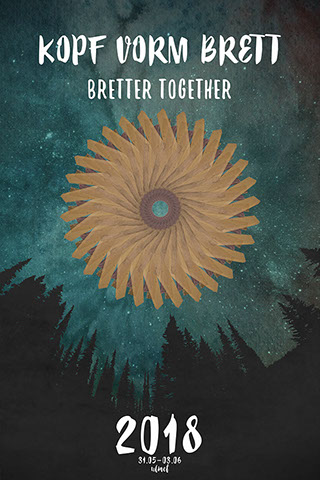
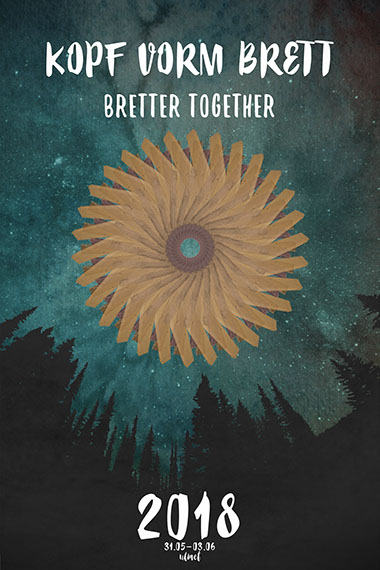
asd
asd

diff --git a/phone/index.html b/phone/index.html
@@ -1,0 +1,67 @@
+<!DOCTYPE html>
+<html class="nojs html css_verticalspacer" lang="en-US">
+ <head>
+
+  <meta http-equiv="Content-type" content="text/html;charset=UTF-8"/>
+  <meta name="generator" content="2018.0.0.379"/>
+  <meta name="viewport" content="width=380"/>
+  
+  <script type="text/javascript">
+   // Update the 'nojs'/'js' class on the html node
+document.documentElement.className = document.documentElement.className.replace(/\bnojs\b/g, 'js');
+
+// Check that all required assets are uploaded and up-to-date
+if(typeof Muse == "undefined") window.Muse = {}; window.Muse.assets = {"required":["museutils.js", "museconfig.js", "jquery.watch.js", "require.js", "index.css"], "outOfDate":[]};
+</script>
+  
+  <link rel="canonical" href="http://kopfvormbrett.de/index.html"/>
+  <title>Kopfvormbrett</title>
+  <!-- CSS -->
+  <link rel="stylesheet" type="text/css" href="../css/site_global.css?crc=444006867"/>
+  <link rel="stylesheet" type="text/css" href="css/index.css?crc=414659693" id="pagesheet"/>
+    <!--custom head HTML-->
+  <meta name="viewport" content="width=device-width, initial-scale=1.0, maximum-scale=1.0, user-scalable=0">
+<meta name="viewport" content="width=device-width, initial-scale=1.0, maximum-scale=1.0, user-scalable=0">
+ </head>
+ <body>
+
+  <div class="clearfix" id="page"><!-- group -->
+   <div class="clearfix grpelem" id="pu3224"><!-- group -->
+    <div class="clip_frame grpelem" id="u3224"><!-- image -->
+     <img class="block" id="u3224_img" src="../images/bretter_together.jpg?crc=218959345" alt="" width="380" height="570"/>
+    </div>
+    <div class="clip_frame grpelem" id="u3226"><!-- image -->
+     <img class="block" id="u3226_img" src="../images/bretter_together_muse_oben380x501.png?crc=3870968601" alt="" width="380" height="501"/>
+    </div>
+   </div>
+   <div class="verticalspacer" data-offset-top="786" data-content-above-spacer="785" data-content-below-spacer="70"></div>
+   <div class="clip_frame grpelem" id="u3228"><!-- image -->
+    <img class="block" id="u3228_img" src="../images/kvb_sschwarz_unten380x574.jpg?crc=263956725" alt="" width="380" height="574"/>
+   </div>
+  </div>
+  <!-- Other scripts -->
+  <script type="text/javascript">
+   // Decide weather to suppress missing file error or not based on preference setting
+var suppressMissingFileError = false
+</script>
+  <script type="text/javascript">
+   window.Muse.assets.check=function(d){if(!window.Muse.assets.checked){window.Muse.assets.checked=!0;var b={},c=function(a,b){if(window.getComputedStyle){var c=window.getComputedStyle(a,null);return c&&c.getPropertyValue(b)||c&&c[b]||""}if(document.documentElement.currentStyle)return(c=a.currentStyle)&&c[b]||a.style&&a.style[b]||"";return""},a=function(a){if(a.match(/^rgb/))return a=a.replace(/\s+/g,"").match(/([\d\,]+)/gi)[0].split(","),(parseInt(a[0])<<16)+(parseInt(a[1])<<8)+parseInt(a[2]);if(a.match(/^\#/))return parseInt(a.substr(1),
+16);return 0},g=function(g){for(var f=document.getElementsByTagName("link"),h=0;h<f.length;h++)if("text/css"==f[h].type){var i=(f[h].href||"").match(/\/?css\/([\w\-]+\.css)\?crc=(\d+)/);if(!i||!i[1]||!i[2])break;b[i[1]]=i[2]}f=document.createElement("div");f.className="version";f.style.cssText="display:none; width:1px; height:1px;";document.getElementsByTagName("body")[0].appendChild(f);for(h=0;h<Muse.assets.required.length;){var i=Muse.assets.required[h],l=i.match(/([\w\-\.]+)\.(\w+)$/),k=l&&l[1]?
+l[1]:null,l=l&&l[2]?l[2]:null;switch(l.toLowerCase()){case "css":k=k.replace(/\W/gi,"_").replace(/^([^a-z])/gi,"_$1");f.className+=" "+k;k=a(c(f,"color"));l=a(c(f,"backgroundColor"));k!=0||l!=0?(Muse.assets.required.splice(h,1),"undefined"!=typeof b[i]&&(k!=b[i]>>>24||l!=(b[i]&16777215))&&Muse.assets.outOfDate.push(i)):h++;f.className="version";break;case "js":h++;break;default:throw Error("Unsupported file type: "+l);}}d?d().jquery!="1.8.3"&&Muse.assets.outOfDate.push("jquery-1.8.3.min.js"):Muse.assets.required.push("jquery-1.8.3.min.js");
+f.parentNode.removeChild(f);if(Muse.assets.outOfDate.length||Muse.assets.required.length)f="Einige der Dateien auf dem Server fehlen oder sind ungültig. Löschen Sie den Browser-Cache und versuchen Sie es erneut. Wenn das Problem weiterhin besteht, wenden Sie sich an den Autor der Website.",g&&Muse.assets.outOfDate.length&&(f+="\nOut of date: "+Muse.assets.outOfDate.join(",")),g&&Muse.assets.required.length&&(f+="\nMissing: "+Muse.assets.required.join(",")),suppressMissingFileError?(f+="\nUse SuppressMissingFileError key in AppPrefs.xml to show missing file error pop up.",console.log(f)):alert(f)};location&&location.search&&location.search.match&&location.search.match(/muse_debug/gi)?
+setTimeout(function(){g(!0)},5E3):g()}};
+var muse_init=function(){require.config({baseUrl:"../"});require(["jquery","museutils","whatinput","jquery.watch"],function(d){var $ = d;$(document).ready(function(){try{
+window.Muse.assets.check($);/* body */
+Muse.Utils.transformMarkupToFixBrowserProblemsPreInit();/* body */
+Muse.Utils.prepHyperlinks(true);/* body */
+Muse.Utils.makeButtonsVisibleAfterSettingMinWidth();/* body */
+Muse.Utils.fullPage('#page');/* 100% height page */
+Muse.Utils.showWidgetsWhenReady();/* body */
+Muse.Utils.transformMarkupToFixBrowserProblems();/* body */
+}catch(b){if(b&&"function"==typeof b.notify?b.notify():Muse.Assert.fail("Error calling selector function: "+b),false)throw b;}})})};
+
+</script>
+  <!-- RequireJS script -->
+  <script src="../scripts/require.js?crc=4157109226" type="text/javascript" async data-main="../scripts/museconfig.js?crc=4153641093" onload="if (requirejs) requirejs.onError = function(requireType, requireModule) { if (requireType && requireType.toString && requireType.toString().indexOf && 0 <= requireType.toString().indexOf('#scripterror')) window.Muse.assets.check(); }" onerror="window.Muse.assets.check();"></script>
+   </body>
+</html>

diff --git a/index.html b/index.html
@@ -7,13 +7,19 @@
   <meta name="viewport" content="width=device-width, initial-scale=1.0"/>
   
   <script type="text/javascript">
-   // Update the 'nojs'/'js' class on the html node
+   // Redirect to phone/tablet as necessary
+(function(a,b,c){var d=function(){if(navigator.maxTouchPoints>1)return!0;if(window.matchMedia&&window.matchMedia("(-moz-touch-enabled)").matches)return!0;for(var a=["Webkit","Moz","O","ms","Khtml"],b=0,c=a.length;b<c;b++){var f=a[b]+"MaxTouchPoints";if(f in navigator&&navigator[f])return!0}try{return document.createEvent("TouchEvent"),!0}catch(d){}return!1}(),g=function(a){a+="=";for(var b=document.cookie.split(";"),c=0;c<b.length;c++){for(var f=b[c];f.charAt(0)==" ";)f=f.substring(1,f.length);if(f.indexOf(a)==
+0)return f.substring(a.length,f.length)}return null};if(g("inbrowserediting")!="true"){var f,g=g("devicelock");g=="phone"&&c?f=c:g=="tablet"&&b&&(f=b);if(g!=a&&!f)if(window.matchMedia)window.matchMedia("(max-device-width: 415px)").matches&&c?f=c:window.matchMedia("(max-device-width: 960px)").matches&&b&&d&&(f=b);else{var a=Math.min(screen.width,screen.height)/(window.devicePixelRatio||1),g=window.screen.systemXDPI||0,i=window.screen.systemYDPI||0,g=g>0&&i>0?Math.min(screen.width/g,screen.height/i):
+0;(a<=370||g!=0&&g<=3)&&c?f=c:a<=960&&b&&d&&(f=b)}if(f)document.location=f+(document.location.search||"")+(document.location.hash||""),document.write('<style type="text/css">body {visibility:hidden}</style>')}})("desktop","","phone/index.html");
+
+// Update the 'nojs'/'js' class on the html node
 document.documentElement.className = document.documentElement.className.replace(/\bnojs\b/g, 'js');
 
 // Check that all required assets are uploaded and up-to-date
-if(typeof Muse == "undefined") window.Muse = {}; window.Muse.assets = {"required":["museutils.js", "museconfig.js", "jquery.watch.js", "jquery.museresponsive.js", "require.js", "index.css"], "outOfDate":[]};
+if(typeof Muse == "undefined") window.Muse = {}; window.Muse.assets = {"required":["museutils.js", "museconfig.js", "jquery.watch.js", "require.js", "jquery.museresponsive.js", "index.css"], "outOfDate":[]};
 </script>
   
+  <link media="only screen and (max-width: 370px)" rel="alternate" href="http://kopfvormbrett.de/phone/index.html"/>
   <title>Kopfvormbrett</title>
   <!-- CSS -->
   <link rel="stylesheet" type="text/css" href="css/site_global.css?crc=444006867"/>
@@ -47,7 +53,7 @@ if(typeof Muse == "undefined") window.Muse = {}; window.Muse.assets = {"required
   <div class="breakpoint" id="bp_320" data-max-width="320"><!-- responsive breakpoint node -->
    <div class="clearfix temp_no_id" data-orig-id="page"><!-- group -->
     <div class="clip_frame" id="u2568"><!-- image -->
-     <img class="block temp_no_img_src" id="u2568_img" data-orig-src="images/bretter_together.jpg?crc=143210177" alt="" width="320" height="480" src="images/blank.gif?crc=4208392903"/>
+     <img class="block temp_no_img_src" id="u2568_img" data-orig-src="images/bretter_together.jpg?crc=218959345" alt="" width="320" height="480" src="images/blank.gif?crc=4208392903"/>
     </div>
     <div class="clip_frame grpelem temp_no_id" data-orig-id="u2025"><!-- image -->
      <img class="block temp_no_id temp_no_img_src" data-orig-src="images/bretter_together_muse_oben320x422.png?crc=292848783" alt="" width="320" height="422" data-orig-id="u2025_img" src="images/blank.gif?crc=4208392903"/>

diff --git a/phone/css/index.css b/phone/css/index.css
@@ -1,0 +1,1 @@
+.version.index{color:#000018;background-color:#B7346D;}#muse_css_mq{background-color:#FFFFFF;}#page{z-index:1;width:380px;min-height:570px;background-image:none;border-width:0px;border-color:#000000;background-color:#DCDCDC;}#pu3224{z-index:2;width:0.01px;margin-right:-10000px;}#u3224{z-index:2;width:380px;background-color:transparent;position:relative;margin-right:-10000px;}#u3226{z-index:4;width:380px;background-color:transparent;position:relative;margin-right:-10000px;margin-top:285px;}.css_verticalspacer .verticalspacer{height:calc(100vh - 855px);}#u3228{z-index:6;width:380px;background-color:transparent;margin-bottom:-675px;position:relative;margin-right:-10000px;margin-top:173px;}.html{background-color:#000000;}body{position:relative;min-width:380px;}.verticalspacer{min-height:1px;}@-ms-viewport{width:380px;}@-webkit-viewport{width:380px;}@-o-viewport{width:380px;}@-moz-viewport{width:380px;}@viewport{width:380px;}

diff --git a/phone/css/nomq_index.css b/phone/css/nomq_index.css
@@ -1,0 +1,1 @@
+/* empty css file */
